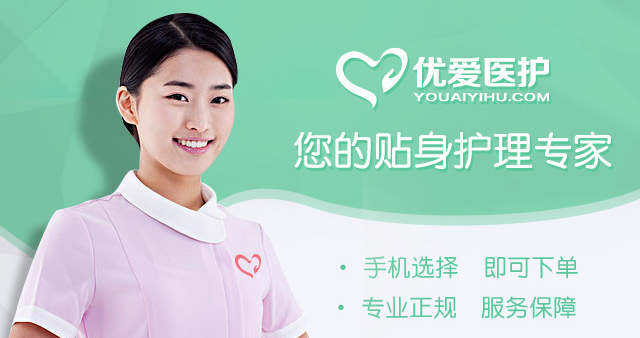
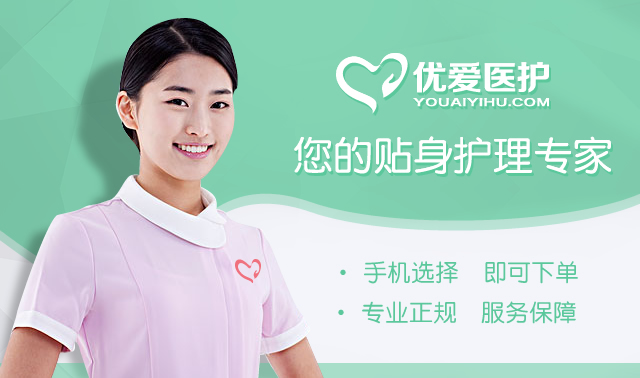
my　订单

diff --git a/m/index.html b/m/index.html
@@ -24,11 +24,11 @@
             <img src="../images/slides/1.jpg" alt="优爱医护，您的贴身护理专家" />
         </div>
         <div class="swiper-slide" style="">
-            <img src="../images/slides/1.jpg" alt="优爱医护，您的贴身护理专家" />
+            <img src="../images/slides/2.jpg" alt="优爱医护，您的贴身护理专家" />
         </div>
-        <div class="swiper-slide" style="">
-            <img src="../images/slides/1.jpg" alt="优爱医护，您的贴身护理专家" />
-        </div>
+        <!--<div class="swiper-slide" style="">-->
+            <!--<img src="../images/slides/1.jpg" alt="优爱医护，您的贴身护理专家" />-->
+        <!--</div>-->
     </div>
     <div class="swiper-pagination"></div>
 </div>

diff --git a/m/js/order/orderConfirm.js b/m/js/order/orderConfirm.js
@@ -45,6 +45,7 @@ getConfigs(function(configs) {
             console.log(configs.worker_levels);
             var worker_level_array = new Array();
             var worker_level_prirce_array = new Array();
+            console.log(worker_level_lenth);
             for(var j =0;j<=worker_level_lenth-1;j++){
                 var id = data[j]['id'];
                 worker_level_array[id] = worker_level_data[j]['name'];

diff --git a/m/js/public.js b/m/js/public.js
@@ -1,7 +1,7 @@
 var host = "http://"+window.location.host,
     UA = window.navigator.userAgent,
     CLICK = 'click',
-    url = 'http://api.youaiyihu.com/',
+    url = 'http://dev.api.youaiyihu.com/',
     version = 'v1/',
     ID = 'SID',
     NAME = 'name',
